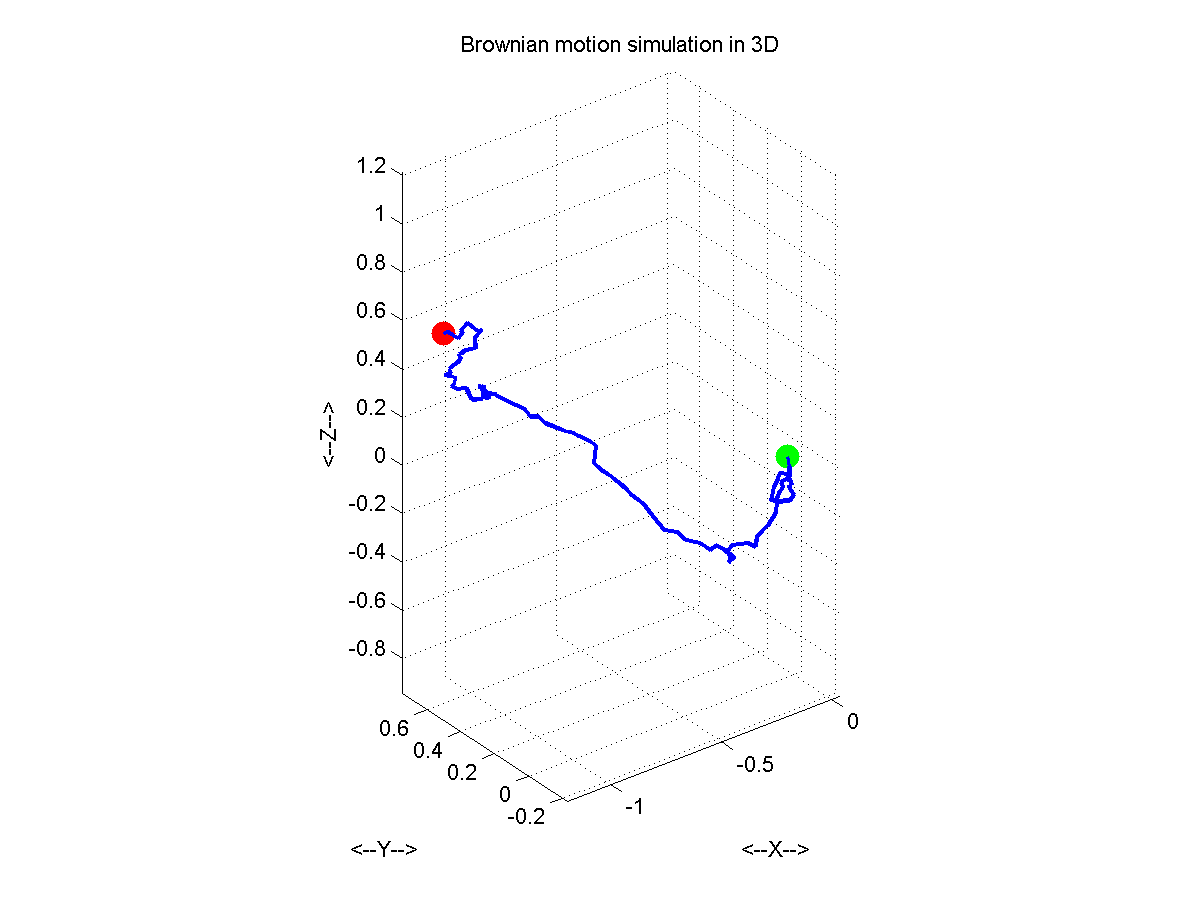
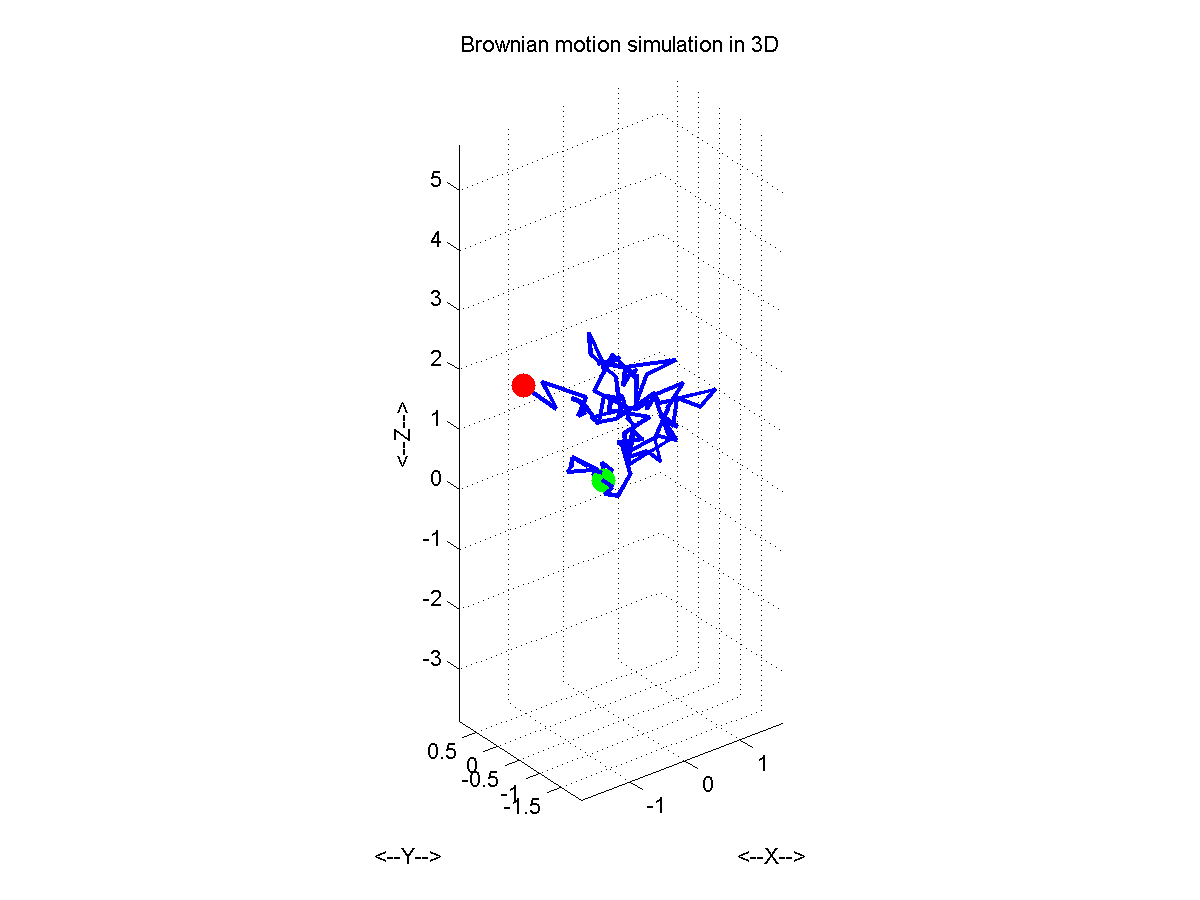
dodany plik przykładowy, porządkowanie kodu i repo

diff --git a/fractional_brownian_motion_faster.m b/fractional_brownian_motion_faster.m
@@ -1,11 +1,8 @@
-%http://en.wikipedia.org/wiki/Normal_distribution#Standard_normal_distribution
+function [X,t] = fractional_brownian_motion_faster ( m, n, H, T )
+%http://en.wikipedia.org/wiki/Fractional_Brownian_motion
 %http://www2.isye.gatech.edu/~adieker3/fbm/thesisold.pdf
 %parameters
-n = 100;
-m = 3;
-T = 1;
 t = T/n:T/(n + 1):T;
-H = 0.8;
 %variance-covariance matrix
 gamma = zeros(n,n);
 for j=1:n
@@ -15,19 +12,9 @@ for j=1:n
 end
 %cholesky decomposition
 %L - standard deviation matrix
-[L,U] = Cholesky(gamma);
+L = chol(gamma, 'lower');
 %n values of standard Gaussian distribution
 P = normrnd(0,1,n,m);
 %quite randomly, from the second link
 L1 = L * P;
-%X = cumsum ( L1(1:n,1:m), 2 );
-X = zeros(n,m);
-for l=1:m
-    for j=1:n
-        for k = 1:n
-            X(j,l) = X(j,l) + L(j,k) * P(k,l); 
-        end
-    end
-end
-plot(t,X);
-brownian_motion_display(m,n,X');
+X = cumsum ( L1(1:n,1:m), 2 );

diff --git a/fractional_brownian_motion.m b/fractional_brownian_motion.m
@@ -1,11 +1,8 @@
-%http://en.wikipedia.org/wiki/Normal_distribution#Standard_normal_distribution
+function [X,t] = fractional_brownian_motion ( m, n, H, T )
+%http://en.wikipedia.org/wiki/Fractional_Brownian_motion
 %http://www2.isye.gatech.edu/~adieker3/fbm/thesisold.pdf
 %parameters
-n = 1000;
-m = 3;
-T = 1;
 t = T/n:T/(n + 1):T;
-H = 0.5;
 %variance-covariance matrix
 gamma = zeros(n,n);
 for j=1:n
@@ -15,11 +12,15 @@ for j=1:n
 end
 %cholesky decomposition
 %L - standard deviation matrix
-L = chol(gamma, 'lower');
+[L] = Cholesky(gamma);
 %n values of standard Gaussian distribution
 P = normrnd(0,1,n,m);
 %quite randomly, from the second link
-L1 = L * P;
-X = cumsum ( L1(1:n,1:m), 2 );
-plot(t,X);
-brownian_motion_display(m,n,X');
+X = zeros(n,m);
+for l=1:m
+    for j=1:n
+        for k = 1:n
+            X(j,l) = X(j,l) + L(j,k) * P(k,l); 
+        end
+    end
+end

diff --git a/example.m b/example.m
@@ -1,0 +1,16 @@
+%example
+n = 100;
+T = 1;
+dH = 0.3;
+for m=1:5
+    for H=0.1:dH:0.9
+        [x1,t] = fractional_brownian_motion(m,n,H,T);
+        x2 = fractional_brownian_motion(m,n,H,T);
+        figure;
+        plot(t,x1);
+        figure;
+        plot(t,x2);
+    end
+end
+[x1,t] = fractional_brownian_motion(3,n,0.3,T);
+brownian_motion_display(3,n,x1');
